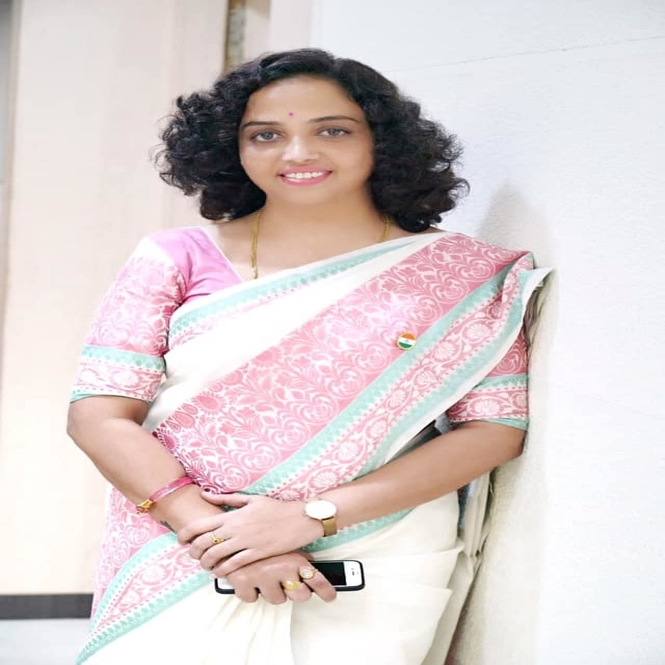
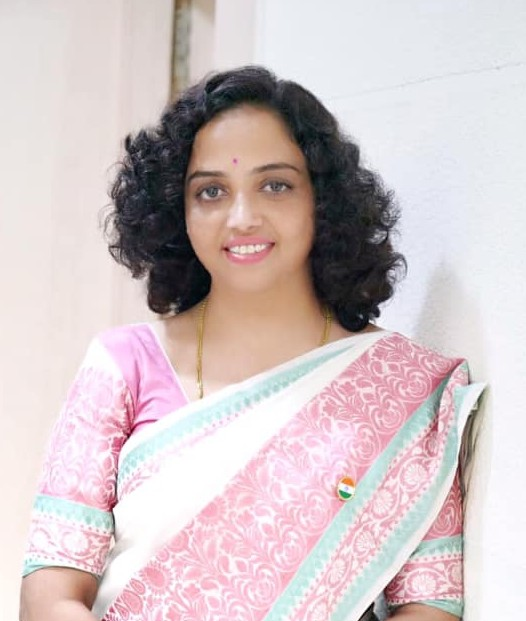
image resized

diff --git a/yuva/templates/yuva/index.html b/yuva/templates/yuva/index.html
@@ -192,7 +192,7 @@
             </div>
             <div class="row mb-5">
               <div class="col-lg-6 mb-5 order-lg-2">
-                <img src="{% static 'yuva/asset/images/hero_9_no-text.jpg' %}" alt="Image" class="img-fluid">
+                <img src="{% static 'yuva/asset/images/hero_18_no-text.jpg' %}" alt="Image" class="img-fluid">
               </div>
               <div class="col-lg-5 mr-auto align-self-center order-lg-1">
                 <h3 class="text-black text-uppercase mb-4">inaugural of KALAM BHARAT</h3>
